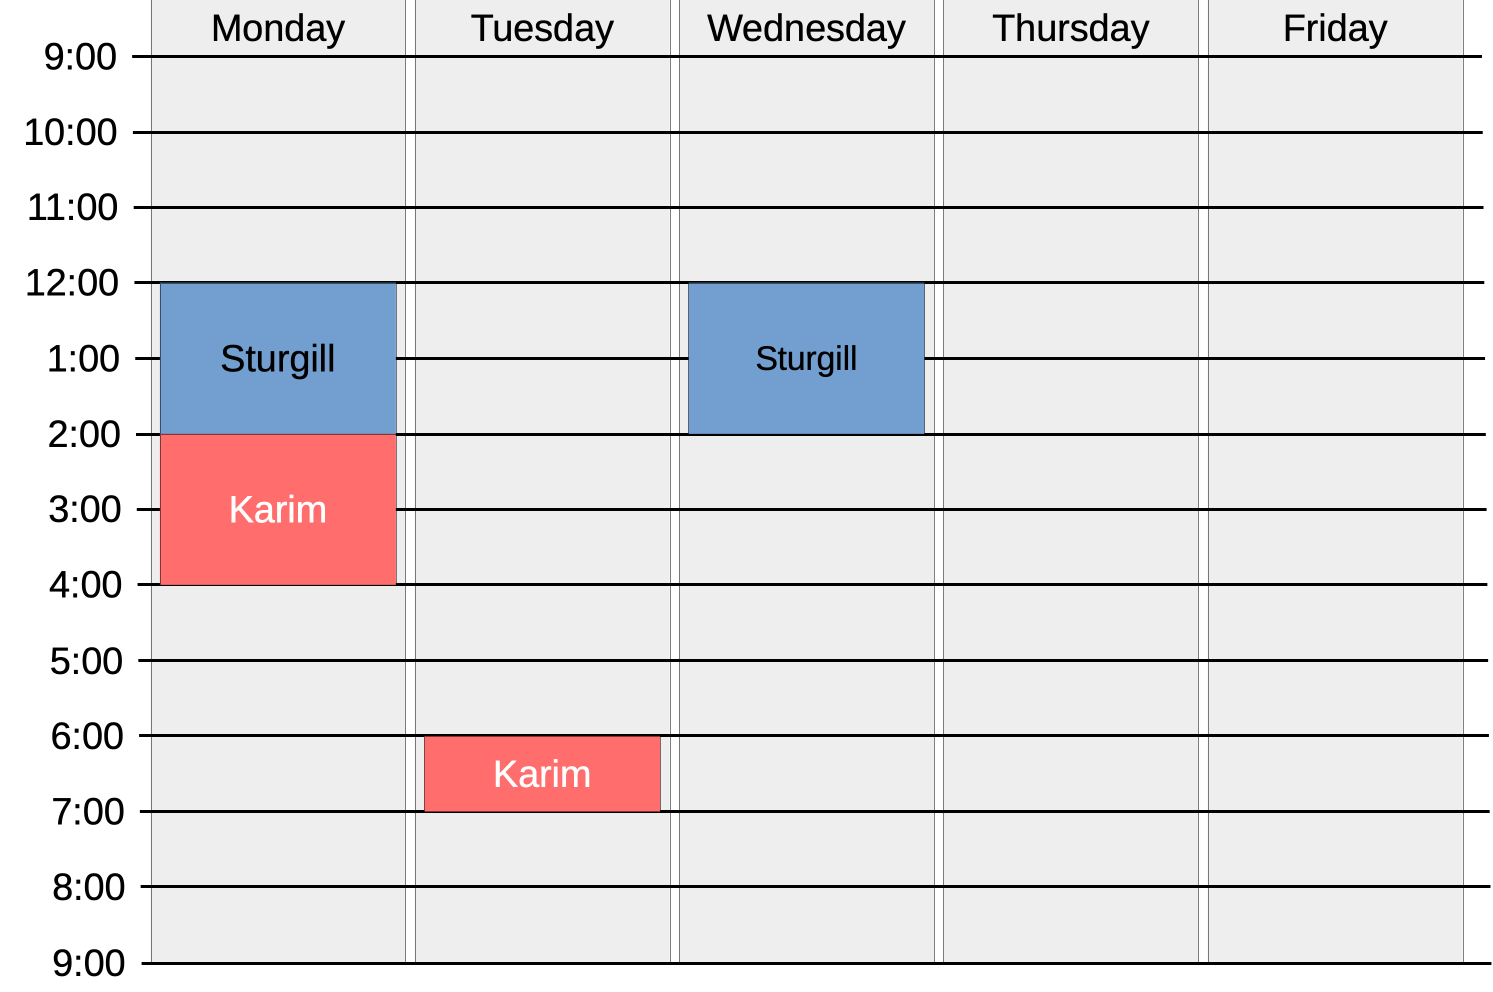
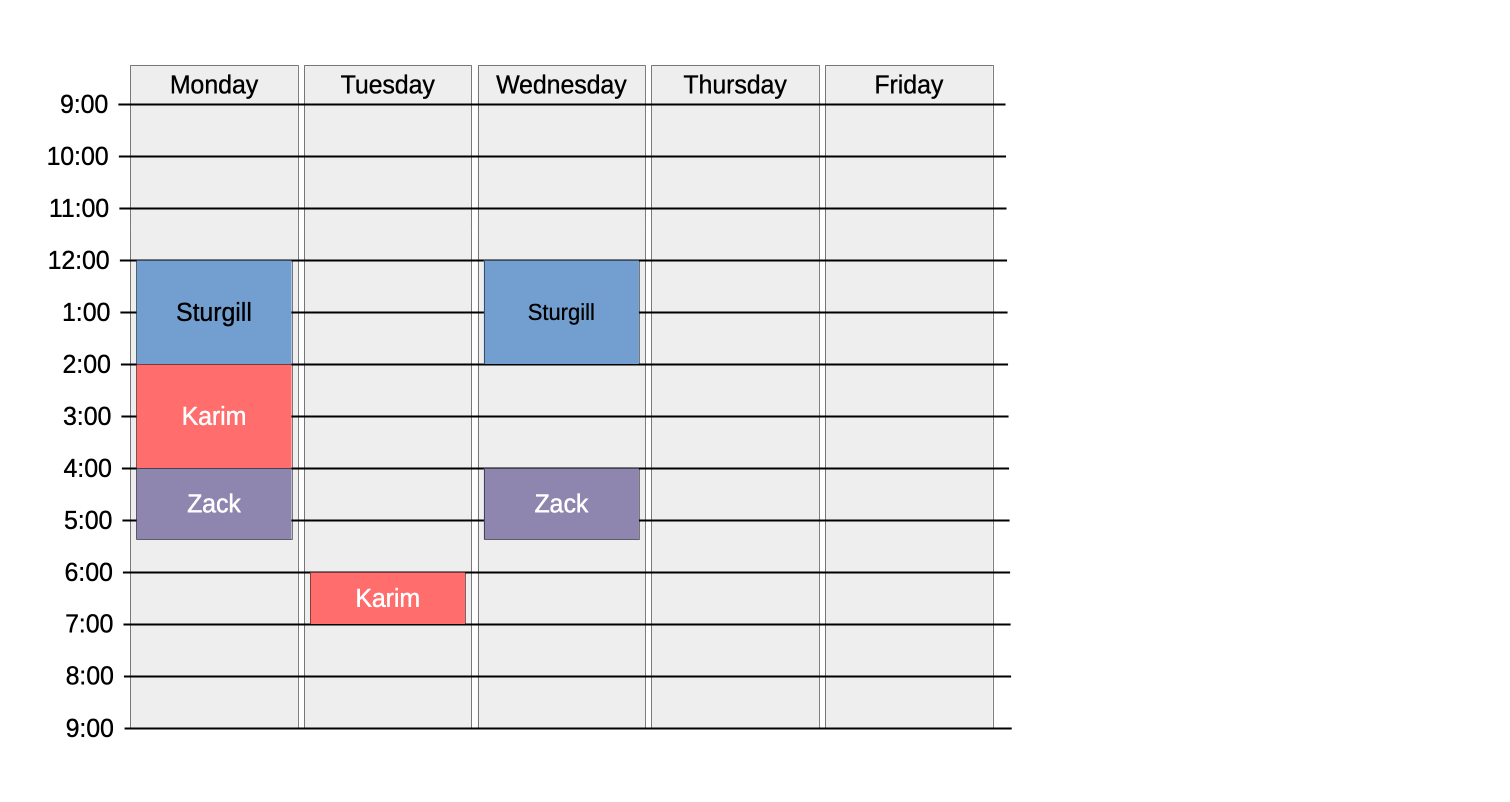
More office hours.

Changed region(s): [[0.0308, 0.187, 1.0, 0.9975], [0.0, 0.0, 0.9859, 0.1559]]

diff --git a/OfficeHours.html b/OfficeHours.html
@@ -62,7 +62,8 @@ If mdh.csc.ncsu.edu isn't working, you should be able to reach me at:
 <h2>Zack Brooks, Teaching Assistant</h2>
 
 <table>
-<tr><td>Office Hours TBD</td><td>Online via MDH</td></tr>
+<tr><td>Mon  4:00 - 5:30 pm</td><td>In-Person and Online via MDH</td></tr>
+<tr><td>Wed  4:00 - 5:30 pm</td><td>In-Person and Online via MDH</td></tr>
 </table>
 
 <h2>Chris Brower, Teaching Assistant</h2>
